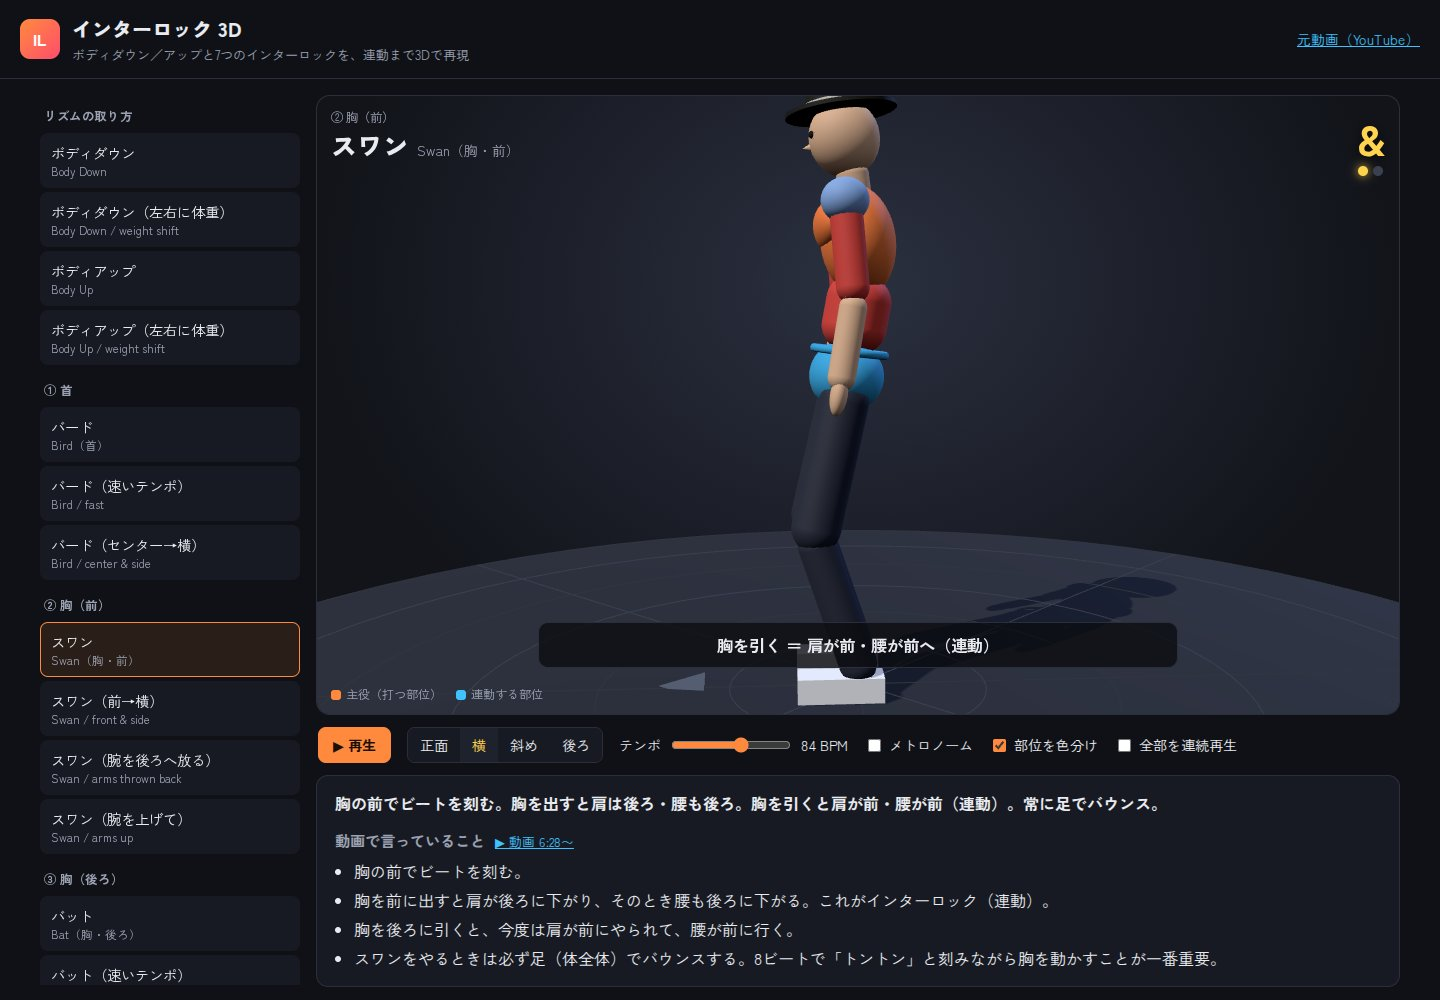
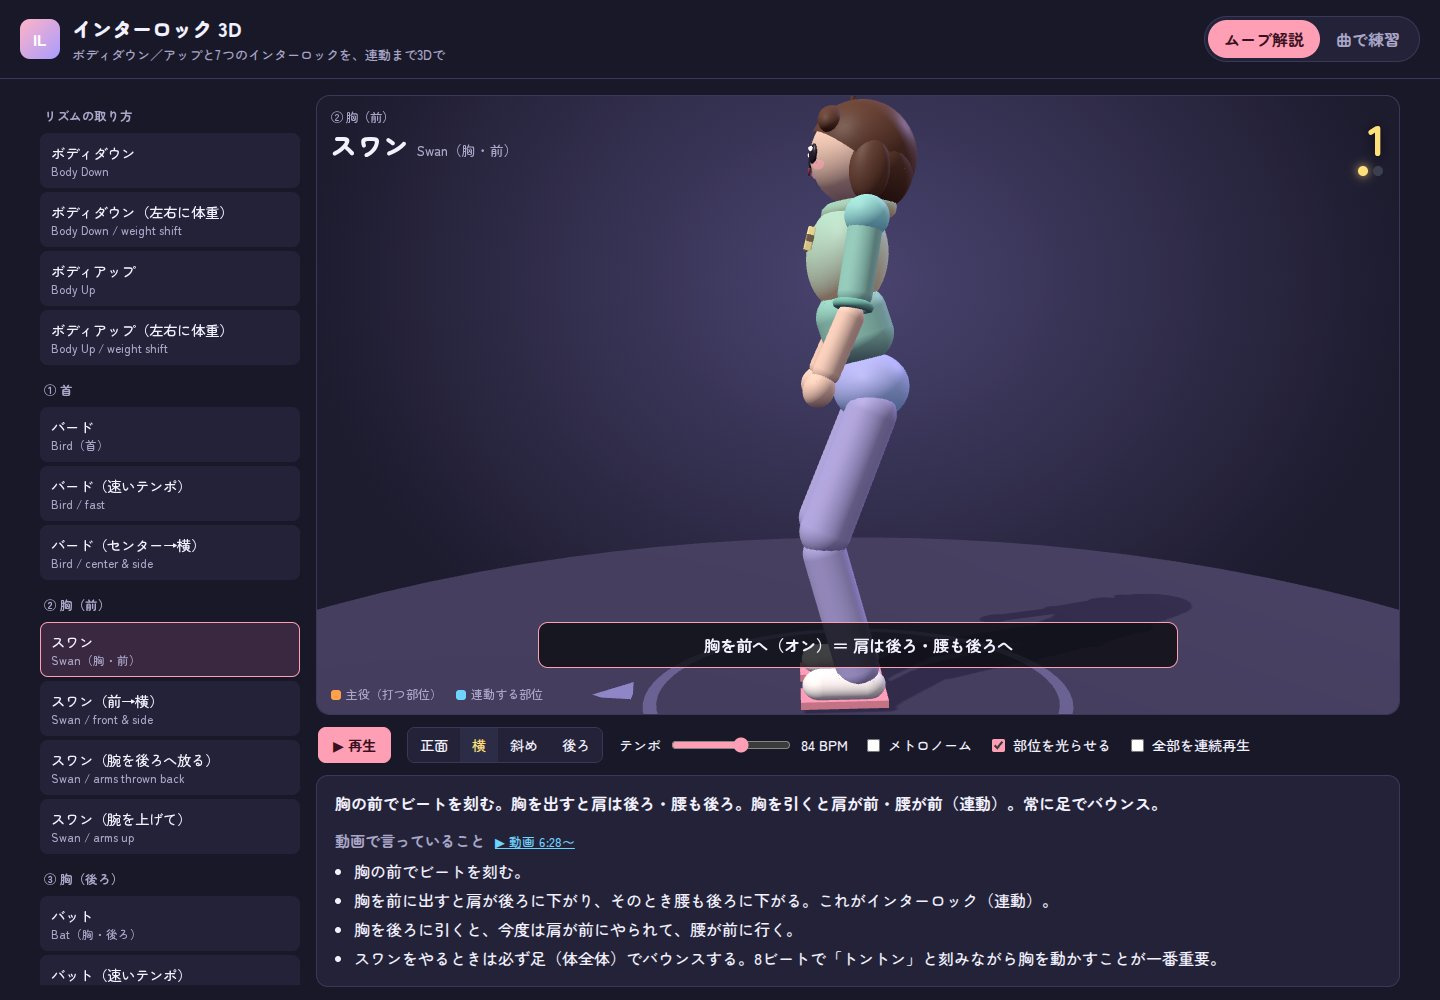
インターロック 3Dの紹介文とスクリーンショットを更新

diff --git a/index.html b/index.html
@@ -849,14 +849,14 @@
 
             <article class="work-card linked">
               <div class="work-thumb interlock">
-                <img src="assets/works/interlock.jpg" alt="インターロック 3Dの画面。3D人体モデルがスワンの動きをしている。" width="1440" height="1000" loading="lazy">
+                <img src="assets/works/interlock.jpg" alt="インターロック 3Dの画面。パステルカラーの3Dキャラがスワンの動きをしている。" width="1440" height="1000" loading="lazy">
               </div>
               <div class="work-body">
                 <div>
                   <span class="tag">Dance 3D</span>
                   <h3>インターロック 3D</h3>
                   <p class="work-catch">首を引けば、胸が出る。</p>
-                  <p>ボディダウン／アップと7つのインターロック（バード〜アリゲーター）を3D人体モデルで再現。首・胸・腰の連動を、好きな角度とテンポで確認できます。</p>
+                  <p>ボディダウン／アップと7つのインターロック（バード〜アリゲーター）を3Dキャラで再現。手持ちの曲を読み込むと、セクションごとにランダムな動きが指定され、曲の拍に合わせて練習できます。</p>
                 </div>
                 <a class="work-link" href="https://interlock-8yk.pages.dev/" aria-label="インターロック 3D：動きを見る">動きを見る <span aria-hidden="true">↗</span></a>
               </div>
